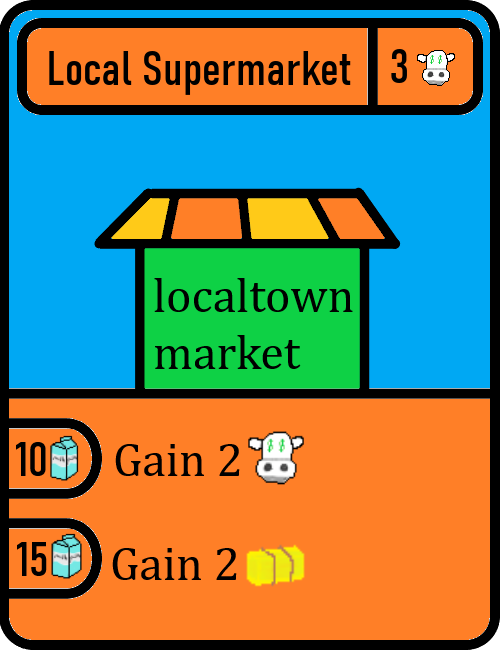
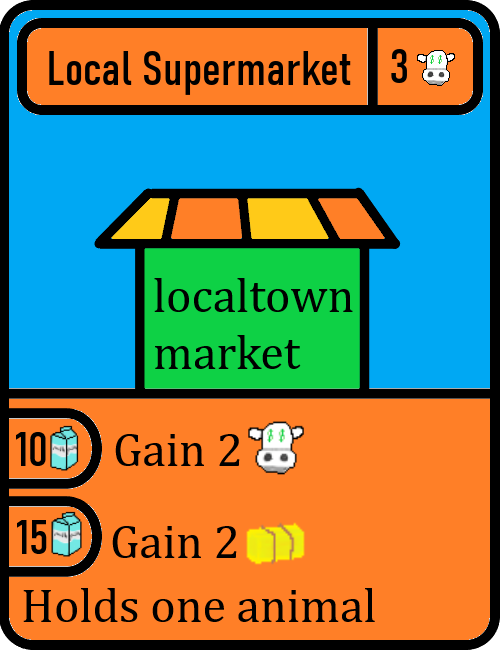
specify commit message they say

Changed region(s): [[0.0, 0.6154, 0.75, 0.9538], [0.3, 0.9231, 0.45, 0.9538]]

diff --git a/cows.py b/cows.py
@@ -501,6 +501,7 @@ class Player:
                                 self.field.cards.remove(card_field)
                                 self.hand.cards.insert(self.index_of_grab, card_field)
                                 add_popup("You don't have enough wealth")
+                                play_sound_path(join("sounds", "error.mp3"))
                                 return True
                             if card_field.type == TYPE_INCANTATION:
                                 for ability in card_field.abilities:
@@ -553,9 +554,13 @@ class Player:
                         if self.field.cards.__contains__(card_find):  # assert is not null
                             good_types = (card_find.equipment_can_go_on if isinstance(card_find.equipment_can_go_on, tuple) else (card_find.equipment_can_go_on,))
                             if good_types.__contains__(card.type):
-                                if card_find.equipment_is_cow_exclusive:
-                                    if not card.card_is_cow:
+                                # equipment cow exclusive check
+                                if not card.card_is_cow:
+                                    if card_find.equipment_is_cow_exclusive:
                                         continue
+                                    else:
+                                        add_popup("This is cow exclusive!")
+                                # do the deed
                                 self.field.cards.remove(card_find)
                                 card.equipped.append(card_find)
                                 return True
@@ -929,6 +934,11 @@ def execute_action(action: Union[Action, DelayedAction, InputAction]) -> None:
         for _ in range(amount*multiplier):
             if action.action == DO_SELF_DRAW_CARD:
                 get_local_player().draw_card(action.amount)
+            if action.action == DO_RECOLLECT_INHABITANTS:
+                for card in get_local_player().get_cards_recursively(action.card.get_residents()):
+                    card.handle_action(GE_SELF_TURN_START)
+            if action.action == DO_SELF_DUPLICATE_CARD:
+                get_local_player().hand.cards.append(type(get_parent(action.card))())
             if action.action == DO_SELF_GIVE_DOLLAR:
                 get_local_player().dollar += 1
                 currency_particles.append(CurrencyParticle(particle_pos, DOLLAR))
@@ -1569,3 +1579,79 @@ class DevilsContract(Card):
             if get_statistics_manager().turns_passed < 6:
                 return [Action(self, DO_SELF_GIVE_DOLLAR, 4)]
         return None
+
+
+class LocalSupermarket(Card):
+    image = "local_supermarket.png"
+    type = TYPE_LAND
+
+    def __init__(self, pos: Union[list[int], tuple[int, int]] = (100, 100)):
+        super().__init__(pos)
+        self.cost_amount = 3
+        self.cost_currency = DOLLAR
+        self.land_max_capacity = 1
+        self.abilities = [Ability(Action(self, DO_SELF_GIVE_DOLLAR, 2), 10, MILK, ab_name="Milk Trade"),
+                          Ability(Action(self, DO_SELF_GIVE_HAY, 2), 15, MILK, ab_name="Hay Days")]
+
+
+class BigLamb(Card):
+    image = "big_lamb.png"
+    type = TYPE_ANIMAL
+
+    def __init__(self, pos: Union[list[int], tuple[int, int]] = (100, 100)):
+        super().__init__(pos)
+        self.cost_amount = 6
+        self.cost_currency = MILK
+        self.abilities = [Ability(Action(self, DO_SELF_GIVE_DOLLAR, 2), 1, DOLLAR, ab_name="Thug Life")]
+
+
+class InternationalTransfer(Card):
+    image = "international_transfer.png"
+    type = TYPE_EQUIPMENT
+
+    def __init__(self, pos: Union[list[int], tuple[int, int]] = (100, 100)):
+        super().__init__(pos)
+        self.cost_amount = 8
+        self.cost_currency = HAY
+        self.equipment_is_cow_exclusive = True
+        self.abilities = [Ability(Action(self, DO_SELF_DUPLICATE_CARD, 1), 8, HAY, ab_name="Fair Exchange")]
+
+
+class Mud(Card):
+    image = "mud.png"
+    type = TYPE_LAND
+
+    def __init__(self, pos: Union[list[int], tuple[int, int]] = (100, 100)):
+        super().__init__(pos)
+        self.cost_amount = 5
+        self.cost_currency = HAY
+        self.land_buff_animal_multipliers = {Pig: 2}
+        self.land_max_capacity = 2
+
+
+class KnightCow(Card):
+    image = "knight_cow.png"
+    type = TYPE_ANIMAL
+
+    def __init__(self, pos: Union[list[int], tuple[int, int]] = (100, 100)):
+        super().__init__(pos)
+        self.cost_amount = 3
+        self.cost_currency = HAY
+
+    def handle_action(self, action: int) -> Union[None, list[Action, DelayedAction, InputAction]]:
+        if action == GE_ANY_DRAW_CARD:
+            # todo implement this
+            return [Action(self, DO_SELF_DRAW_CARD, 1)]
+        return None
+
+
+class BlackMarket(Card):
+    image = "black_market.png"
+    type = TYPE_LAND
+
+    def __init__(self, pos: Union[list[int], tuple[int, int]] = (100, 100)):
+        super().__init__(pos)
+        self.land_max_capacity = 2
+        self.cost_currency = HAY
+        self.cost_amount = 4
+        self.abilities = [Ability(Action(self, DO_RECOLLECT_INHABITANTS, 1), 4, DOLLAR, ab_name="Recollect")]

diff --git a/main.py b/main.py
@@ -317,14 +317,14 @@ def black_intro_screen():
 
 
 def relocate_mouse_events():
-    """move mouse button events to the front"""
+    """move mouse motion events to the back"""
     kl_list = []
     for event_move in events:
-        if event_move.type == pygame.MOUSEBUTTONDOWN:
+        if event_move.type == pygame.MOUSEMOTION:
             kl_list.append(event_move)
     for hit_target in kl_list:
         events.remove(hit_target)
-        events.insert(0, hit_target)
+        events.append(hit_target)
 
 
 running = True

diff --git a/constants.py b/constants.py
@@ -12,6 +12,7 @@ GE_SELF_TURN_START = 100
 GE_ANY_TURN_START = 101
 GE_SELF_PLAY_CARD = 102
 GE_SELF_DRAW_CARD = 103
+GE_ANY_DRAW_CARD = 104
 GE_SELF_DISCARD_CARD = 106
 GE_SELF_COW_ABILITY = 109
 
@@ -46,6 +47,8 @@ DO_SELF_DRAW_MANURE = 2006
 DO_TAKE_TOP_DISCARD_CARD = 2007
 DO_TAKE_ALL_DISCARD_CARDS = 2008
 DO_SELF_DRAW_CARD = 2009
+DO_SELF_DUPLICATE_CARD = 2010
+DO_RECOLLECT_INHABITANTS = 2011
 
 # variable placeholders (PL ace holders)
 PL_SELF_TURNS_PASSED = 5000
